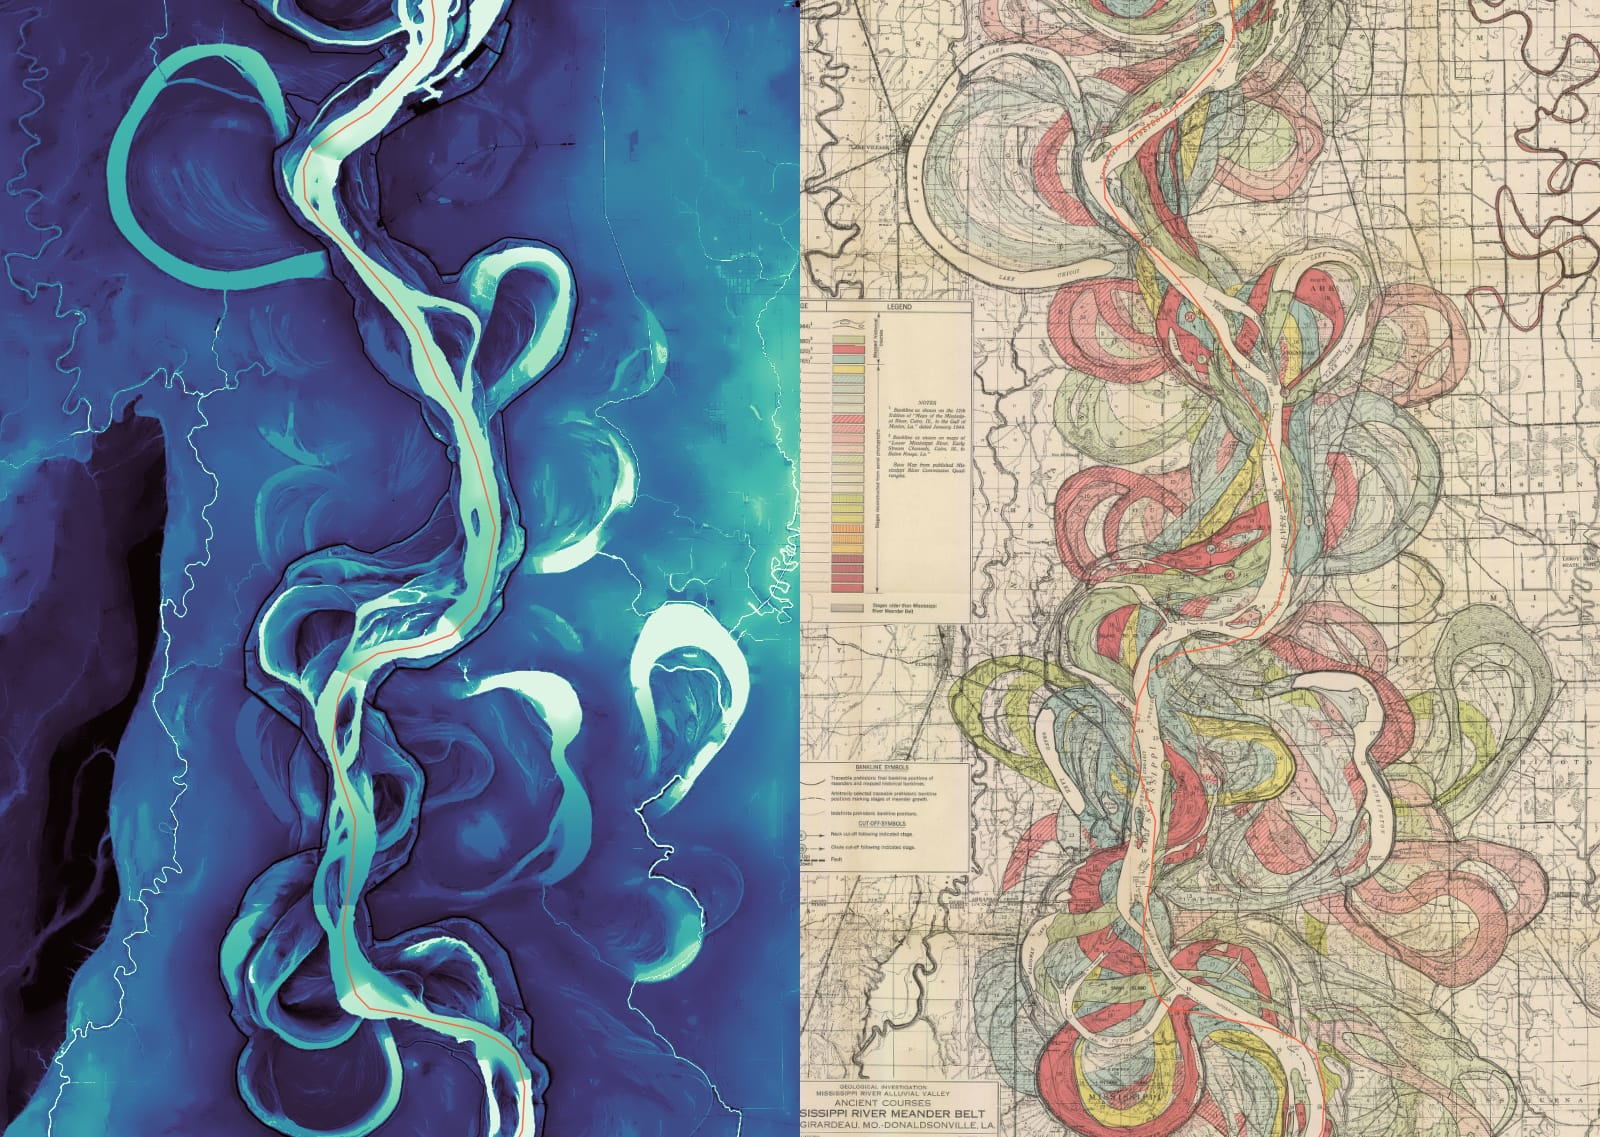
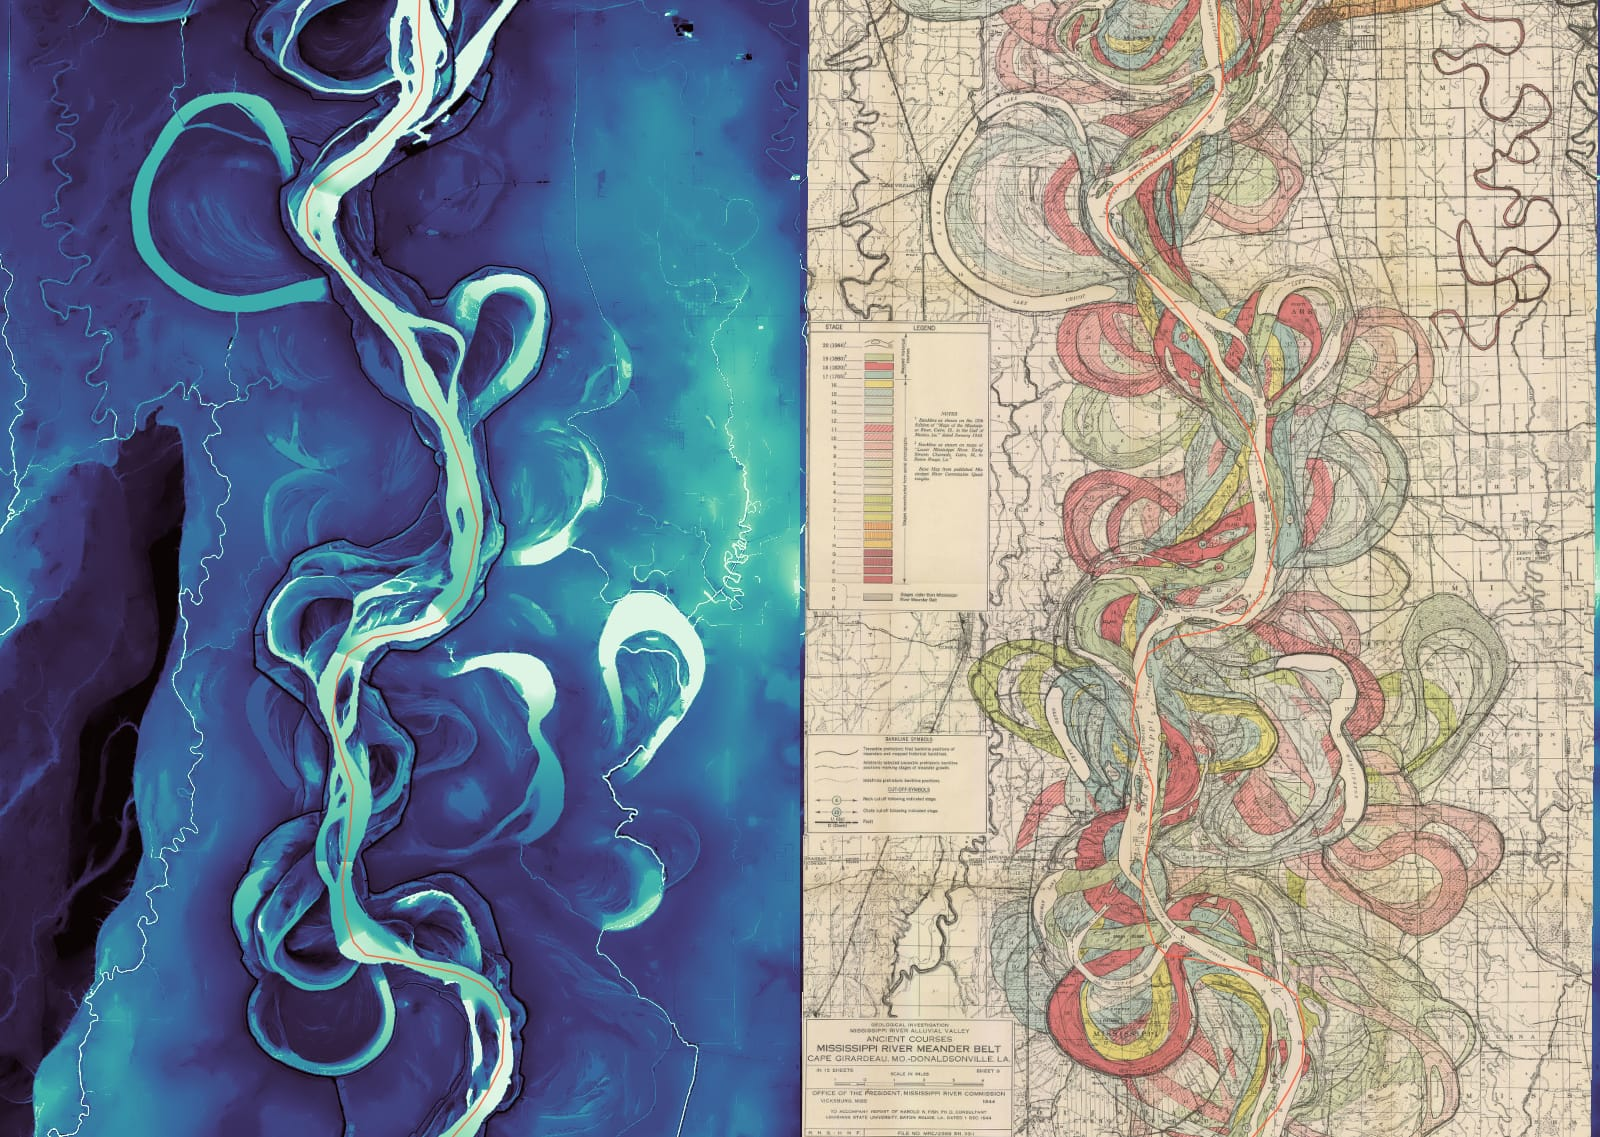
Mississippi bookmark framed on Fisk's sheet (its width fills view B at 1920 px); docs picture, thumbnail and link preview retaken (media lock)

diff --git a/lib/preset-bookmarks.ts b/lib/preset-bookmarks.ts
@@ -48,12 +48,18 @@ export const PRESET_BOOKMARKS: (Bookmark & { reload?: boolean })[] = [
     // Library). The river is named: "Main river" finds it too, but a preset
     // should not depend on a ranking. Hillshade off: the sheet is read
     // against the REM's colors alone.
+    // The camera is the sheet's: its center (-91.1258, 33.1467; the sheet
+    // spans 0.464 degrees of longitude, -91.358 to -90.894) at the zoom
+    // where that width is a 960 px pane, half a 1920 px window (10.506), so
+    // the sheet's left and right edges sit at view B's edges there. A link
+    // holds a zoom, not an extent: a narrower window crops the sheet's
+    // sides, a wider one shows the REM beside it.
     id: "preset-mississippi-rem",
     name: "Mississippi at Greenville — River REM beside Fisk's 1944 meander map",
     ts: 0,
     thumb: "/bookmark-thumbs/mississippi-rem.jpg",
     search: presetSearch({
-      appMode: "rem", viewMode: "2d", zoom: 10.4, lat: 33.15, lng: -91.13, pitch: 0,
+      appMode: "rem", viewMode: "2d", zoom: 10.5, lat: 33.1467, lng: -91.1258, pitch: 0,
       remRiver: "named", remRiverName: "Mississippi River",
       splitStyle: "side-by-side", showRasterBasemap: true, basemapPerView: true,
       overlayBasemapIdsB: "custom-basemap-allmaps-ac79c53138d6b057", overlaysStack: "top", showHillshade: false,
